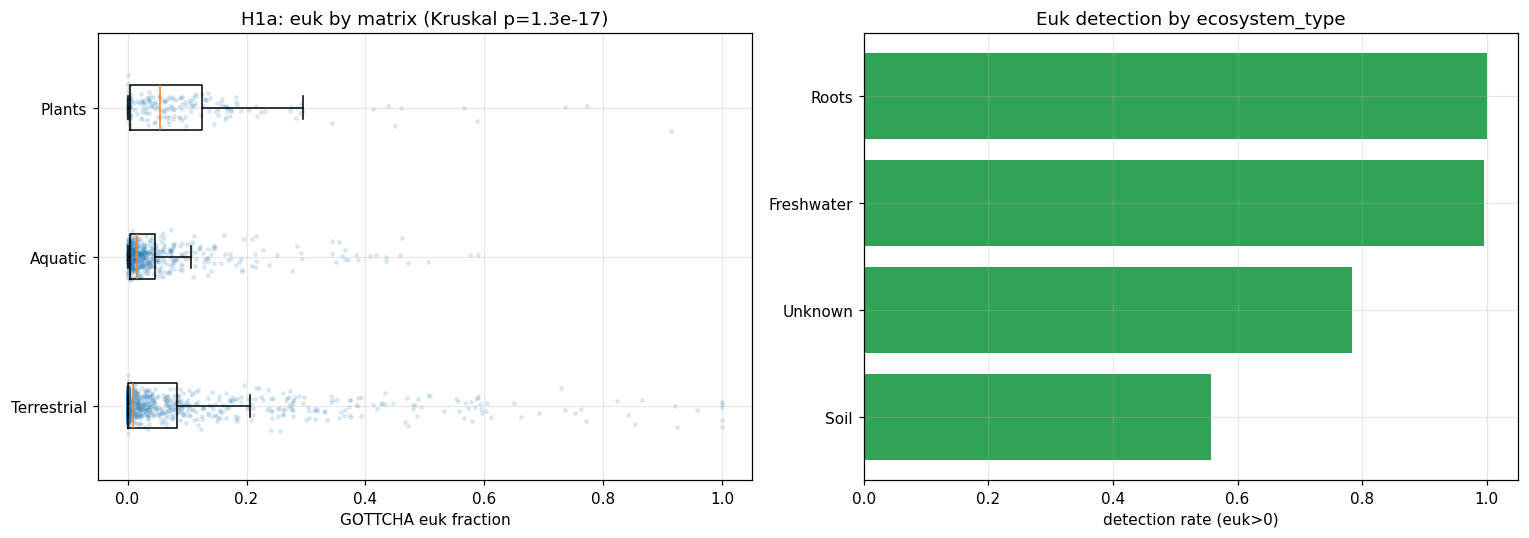
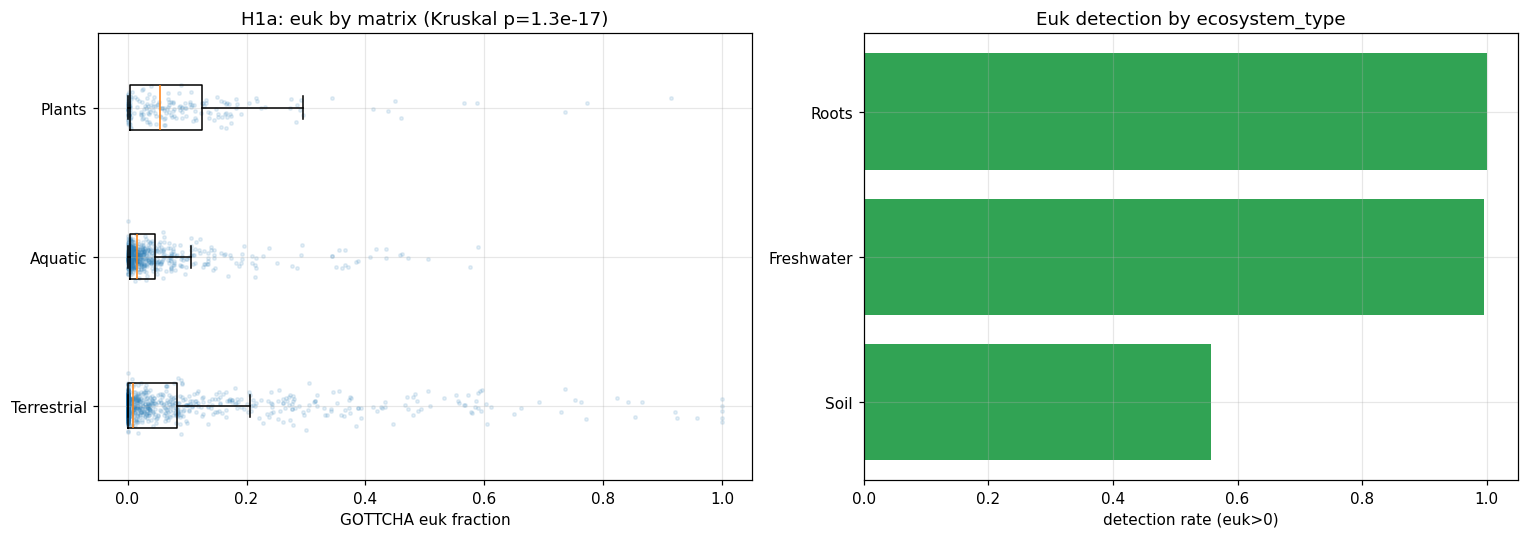
fix(euk_in_prok_correlates): address REVIEW_1 (exclude Unknown from ecosystem_type; caveats)
- NB02: drop Unknown/missing-metadata bucket from ecosystem_type Kruskal
  (was inflating p to ~1e-50 as missingness artifact); now equals matrix
  test H=77.8 p=1.3e-17. Report corrected.
- NB03: remove dead placeholder line.
- REPORT: pooled-run metadata caveat added to Limitations.
Report changed -> status demoted to analysis; REVIEW_1 now stale.

diff --git a/projects/euk_in_prok_correlates/src/build_nb02.py b/projects/euk_in_prok_correlates/src/build_nb02.py
@@ -37,8 +37,8 @@ for a,b in itertools.combinations(groups,2):
     rows.append((a,b,pp))
 pw=pd.DataFrame(rows,columns=['a','b','p']); pw['p_fdr']=multipletests(pw['p'],method='fdr_bh')[1]
 pw['sig']=pw['p_fdr']<0.05; display(pw.round(4)); pw.to_csv(DATA/'h1a_pairwise_matrix.csv',index=False)"""),
-("md", "## H1a (finer) — by ecosystem_type"),
-("code", """top=df['ecosystem_type'].value_counts().head(8).index.tolist()
+("md", "## H1a (finer) — by ecosystem_type (excluding the `Unknown`/missing-metadata bucket)"),
+("code", """top=[t for t in df['ecosystem_type'].value_counts().index if t!='Unknown'][:8]  # exclude missing-metadata bucket
 et=df[df['ecosystem_type'].isin(top)]
 etsum=et.groupby('ecosystem_type')['gott_euk_frac'].agg(n='size',median='median',
       detect=lambda s:(s>0).mean(),gt20=lambda s:(s>0.2).mean()).round(4).sort_values('median',ascending=False)

diff --git a/projects/euk_in_prok_correlates/src/build_nb03.py b/projects/euk_in_prok_correlates/src/build_nb03.py
@@ -49,8 +49,6 @@ def r2_cv(cols, cv, grp=None):
     if grp is not None:
         return cross_val_score(m,X[cols],y,cv=cv,groups=grp,scoring='r2')
     return cross_val_score(m,X[cols],y,cv=cv,scoring='r2')
-res={}
-res['study_only_group']=r2_cv(None if False else ENV,gkf,groups)  # placeholder replaced below
 # study-only model: one-hot of study cannot be tested out-of-study (leakage), so report IN-sample only as batch ceiling
 studyX=pd.get_dummies(df['study_id'],prefix='study')
 m=HistGradientBoostingRegressor(max_depth=4,learning_rate=.08,max_iter=300,random_state=0)

diff --git a/projects/euk_in_prok_correlates/REPORT.md b/projects/euk_in_prok_correlates/REPORT.md
@@ -28,9 +28,12 @@ The composition of the eukaryotic signal varies by sample matrix in a biological
 | Terrestrial (soil) | 55.7% | 0.43 | mixed plant plastid + soil fungi/protists |
 | Plants (roots) | 100% | **0.03** | root-associated **fungi/protists** (non-plastid) |
 
-Univariately, the eukaryotic fraction differs strongly across matrix (Kruskal–Wallis H=77.8, p=1.3×10⁻¹⁷) and
-across ecosystem_type (H=231.1, p=7.9×10⁻⁵⁰); all pairwise matrix contrasts are significant after BH-FDR
-(`data/h1a_pairwise_matrix.csv`).
+Univariately, the eukaryotic fraction differs strongly across matrix (Kruskal–Wallis H=77.8, p=1.3×10⁻¹⁷);
+all pairwise matrix contrasts are significant after BH-FDR (`data/h1a_pairwise_matrix.csv`). After excluding the
+`Unknown`/missing-metadata bucket, `ecosystem_type` reduces to the same three biomes (Soil / Freshwater / Roots)
+and the test is identical to the matrix test — it is not an independent confirmation. (An earlier version that
+retained the `Unknown` bucket — which has the highest median eukaryotic fraction — reported an inflated
+p≈10⁻⁵⁰; that was a missingness artifact and has been removed.)
 
 ![Eukaryotic fraction by environment](figures/fig02_euk_by_environment.png)
 
@@ -119,7 +122,6 @@ long upper tail (15% > 20%). Because of this and the batch structure, all infere
 | Test | Statistic | p | Interpretation |
 |---|---|---|---|
 | Euk ~ matrix (univariate) | H=77.8 | 1.3×10⁻¹⁷ | strong, but confounded (Finding 3) |
-| Euk ~ ecosystem_type | H=231.1 | 7.9×10⁻⁵⁰ | strong, but confounded |
 | Environment out-of-study R² | −0.34 | — | does **not** generalize across studies |
 | Within-study euk ~ vegetation | H=119.1 | 7.6×10⁻²¹ | real when batch fixed |
 | Within-study euk ~ geography | H=310.4 | 2.4×10⁻⁴⁶ | real when batch fixed |
@@ -184,6 +186,10 @@ within-study estimate showing aboveground vegetation and geography genuinely dri
   database-dependent and should be read as relative/ordinal, not calibrated absolute contamination.
 - **Confounding within study.** Even within one study, `env_local_scale` and geography may track sub-batches
   (sampling campaigns); the within-study effect is the best available control, not a randomized one.
+- **Pooled-run metadata.** 1,067 of 2,760 runs are pooled from multiple biosamples; each pooled run inherits
+  environment/collection metadata from a single representative biosample (`MIN(biosample_id)`). Where pooled
+  biosamples differ in local metadata, this injects label noise into the predictors — a conservative bias
+  (it can only weaken associations, not manufacture them).
 
 ## Data
 

diff --git a/projects/euk_in_prok_correlates/README.md b/projects/euk_in_prok_correlates/README.md
@@ -5,7 +5,7 @@ What sample collection, processing, and sequencing factors correlate most strong
 eukaryotic contamination of samples collected for prokaryotic metagenome analysis?
 
 ## Status
-Reviewed — REVIEW_1.md drafted; awaiting `/submit`.
+Analysis — report drafted, awaiting `/berdl-review` and `/submit`.
 
 ## Overview
 Samples collected and sequenced for prokaryotic (bacterial/archaeal) metagenome analysis
